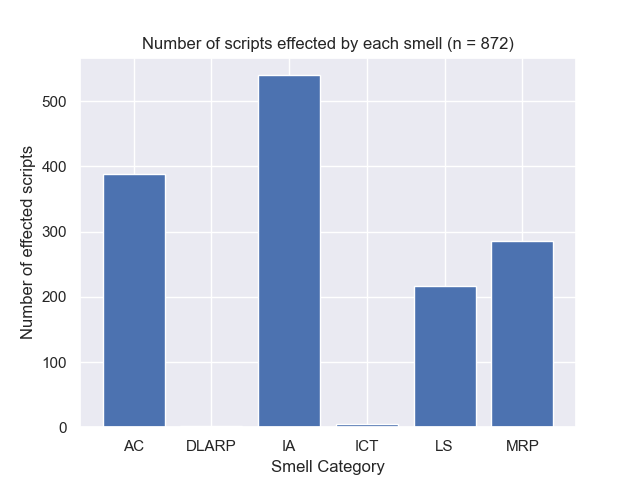
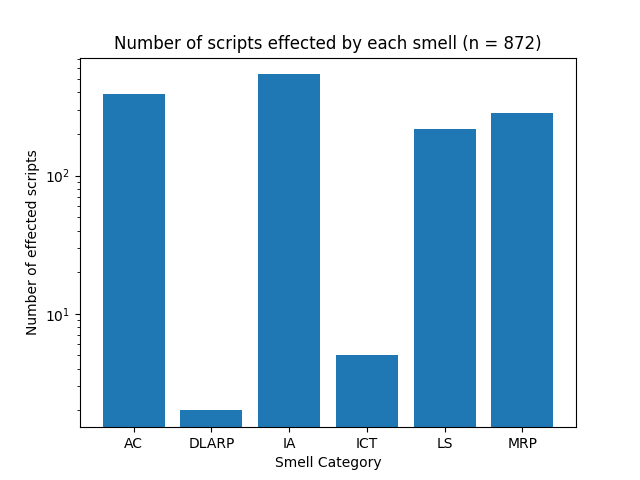
[Added]: Fix the number of occurrences and scripts effected for DLARP

diff --git a/notebook/effected_scripts.py b/notebook/effected_scripts.py
@@ -27,13 +27,14 @@ def run():
     ax.bar(effected_scripts.keys(), effected_scripts.values())
     ax.set_xlabel("Smell Category")
     ax.set_ylabel("Number of effected scripts")
+    ax.set_yscale("log")
     ax.set_title("Number of scripts effected by each smell (n = {})".format(len(detection_results)))
     return fig
 
 
 def main():
     run()
-    plt.show()
+    # plt.show()
 
 
 if __name__ == '__main__':

diff --git a/notebook/count_smells_instances.py b/notebook/count_smells_instances.py
@@ -34,7 +34,7 @@ def run():
         occurrences[abbreviate(smell)] = count
 
     fig, ax = plt.subplots(1, 1)
-
+    print(occurrences)
     ax.bar(occurrences.keys(), occurrences.values())
     ax.set_xlabel("Smell Category")
     ax.set_yscale('log')

diff --git a/dissertation-draft/methodology.md b/dissertation-draft/methodology.md
@@ -150,10 +150,9 @@ The smells will be listed along with their portability and justification. The so
 
 ## Kubernetes Specific Smells
 
-After porting the existing smells found in the existing studies, the smells scoped to only Kubernetes are put in concern. By searching through what documented on the best practices about writing Kubernetes manifests, a specific set of patterns can be found, those are:
+Next, this section attempts to define a set of smells scoped to Kubernetes to answer the research question 2. By searching through guidelines and best practices documented about writing Kubernetes manifests, There are numerous aspects found. However, due to the time constraint, there only 4 of them extracted as code smells.
 
-Next, this section attempts to define a set of smells scoped to Kubernetes to answer the research question 2. By searching through guidelines and best practices documented about writing Kubernetes manifests, There are numerous aspects found. They are then selected to be described in code smells.
-
+The first conern selected is that resources relating to container specification should provide a readiness probe. To elaborate, the purpose of readiness probe is to supply a communiation channel between the container being created, and kubelet — the cluster activity controller, to tell if the container is ready for receving traffic.
 Smells
 
 - Missing Readiness Probes,

diff --git a/README.md b/README.md
@@ -12,15 +12,13 @@ the number of smells instances found for each category are the following:
 - Duplicated Liveness and Readiness Probes (DLARP)
 - Missing Readiness Probe (MRP)
 
-<!-- TODO: Fix these numbers -->
-
 | Smell Category                                   | Instances [outdated] | Scripts Effected [outdated] |
 | ------------------------------------------------ | -------------------- | --------------------------- |
 | Incomplete Tasks (ICT)                           | 5                    | 5                           |
 | Long Statements (LS)                             | 3,255                | 217                         |
 | Avoid Comments (AC)                              | 18,530               | 389                         |
 | Improper Alignment (IA)                          | 540                  | 540                         |
-| Duplicated Liveness and Readiness Probes (DLARP) | 3,096                | 285                         |
+| Duplicated Liveness and Readiness Probes (DLARP) | 2                    | 2                           |
 | Missing Readiness Probe (MRP)                    | 3,128                | 286                         |
 
 Total line-of-code: 525,948
